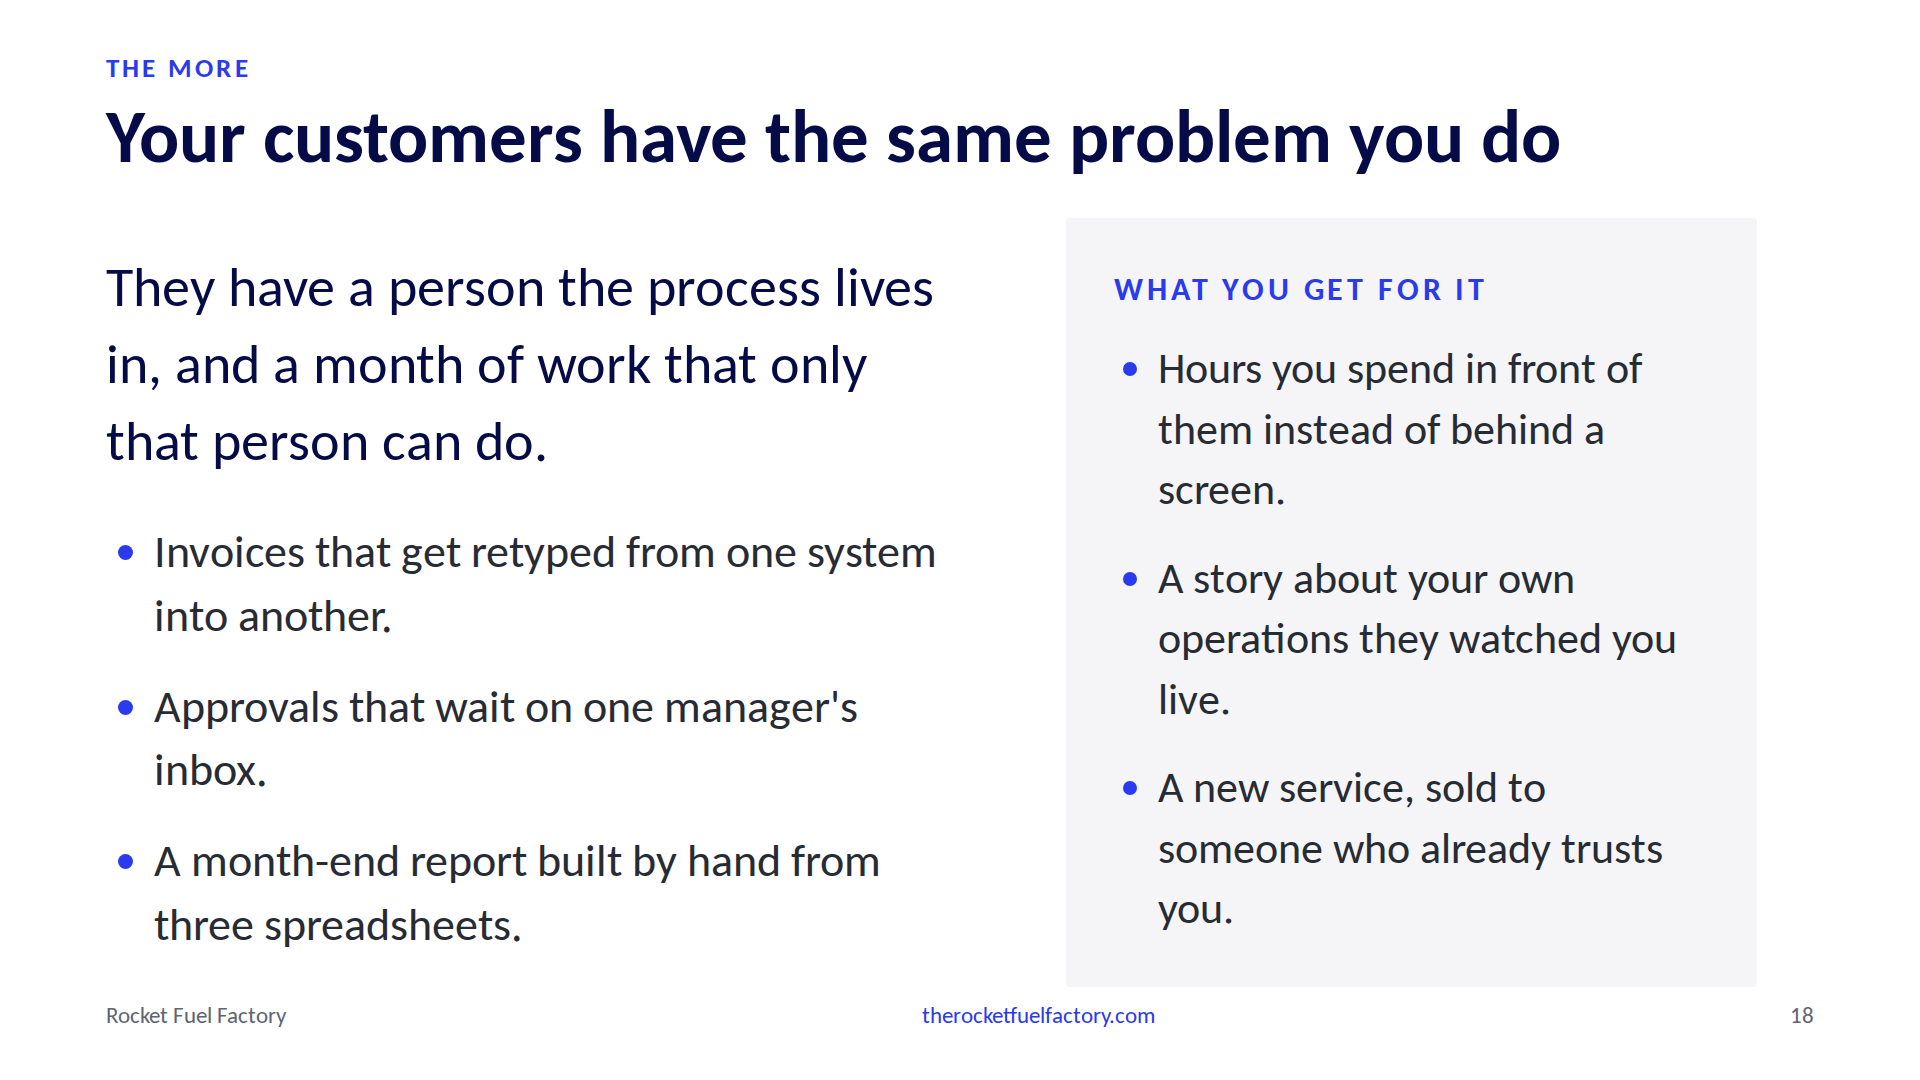
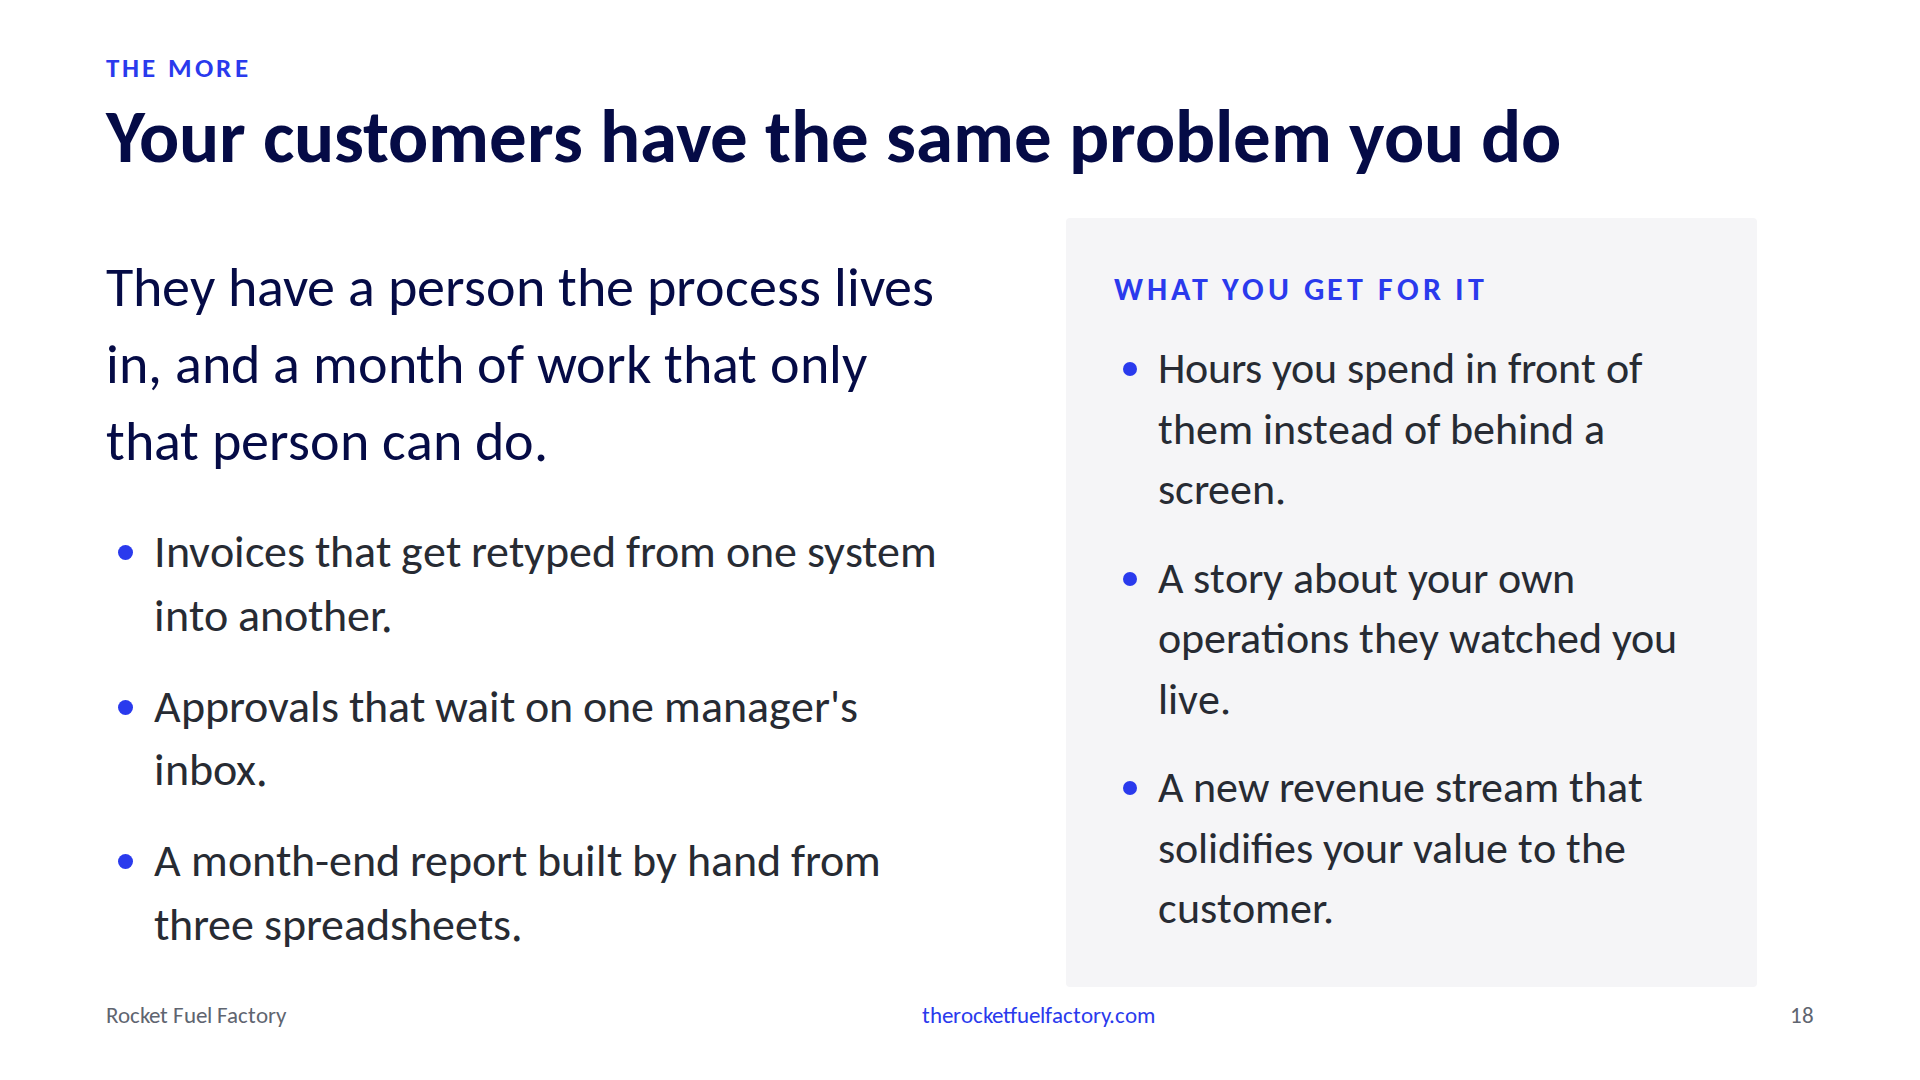
Slide 18: revenue stream line in Tim's words

Changed region(s): [[0.5938, 0.7028, 0.875, 0.8556]]

diff --git a/src/data/notes.js b/src/data/notes.js
@@ -21,7 +21,7 @@ export const notes = {
   'deterministic-vs-probabilistic': 'Target 15:40. Two words, and then I will stop using jargon. Deterministic means the same input gives the same output, every time, forever. Probabilistic means it gives you a good answer, and a slightly different one each time you ask. The steps we usually call automation are deterministic. The steps we call AI are probabilistic. Neither is better. They are for different work, and a finished automation is usually built from both, which is the next slide. Here is how I split it. The deterministic steps get the work with an exact rule. If a ticket comes in from this client at this priority, do this. It does the same thing every single time, which means I can check it once, sign off on it, and let it run. And when it hits something the rule does not cover, it does not improvise. It errors, and I hear about it. The probabilistic step gets the work where a good guess is enough. Draft the email. Sort the inbox. Summarize the ticket. It does something a little different every run, which is fine for a draft and not fine for a decision, so someone reads what it produces every time. And when the brief has a gap, the gap does not come back as an error. It comes back inside the answer, as a guess or as a question, and you only find it by reading. That Q2 line in the first email was a gap in the brief showing up in the answer. If that sounds like a lot of checking, think about what you already run. A tech at 4pm on a Tuesday is a probabilistic system, and you do not ban the tech. You put a second pair of eyes on the work that mattered. Same answer here. Here is what that looks like when you wire it up.',
   'guardrail-sandwich': 'Target 17:40. So yes, you can use AI inside your operations. This is how I do it, and I call it the guardrail sandwich. The whole thing is one automation. The bread is the deterministic steps. The filling is the probabilistic step. And the way to think about it is communication, the same as with a person you are handing work to. Top slice is everything you tell it before it starts. Gather the facts from the systems that actually hold them, so it is not guessing at what the ticket said or what the client has. Validate that the request is complete and that we are allowed to act on it at all, and if either of those fails it stops right there and a person hears about it. Then attach the rules you wrote for this job. That is the step I see skipped most often. It is the brief from the demo, and it is the difference between a guess and a draft you would sign. The filling is the one thing it does. It makes the first pass. It drafts, it sorts, it summarizes, with the facts and the rules already in front of it. Bottom slice is checking whether it understood you. Check the result against those same rules, and if a rule cannot check it, a person does. Then log what happened and tell the person who owns it. The AI never touches the customer or the record on its own. It made a first pass in the middle of a conversation you wrote down on both sides. None of this works if the rules are still in somebody\'s head, which is why everything before this slide was about getting them out. If you saw me at Right of Boom, this is the same sandwich with the security taken out and the day to day put in. Here is what it costs.',
   'honest-limit': 'Target 20:10. So the machine made its pass. Now I have to find out whether it understood me, and that is the same thing I do with a person. I read the draft against what I asked for. If I wrote the rules down, that check is fast, because I am comparing the answer to a sentence I already have. If I did not, the check is me re-deciding the whole job, and then I have bought a subscription and kept the work. That is the part nobody puts in the demo, and it is the honest limit on all of this. The way I keep the check fast is to decide it first, and to ask for the answer in a shape something can test. A category. A yes or no. A number under 150. Then I log the run. What went in, what came out, who signed off. Look at the third row. The draft came back at 212 words, the rule said 150, so it never went anywhere. It sat there for Chris. Nobody had to read it to catch it. That log is not paperwork. It is the record of the conversation, and it is the only version of it anyone else can read. When a client asks me what the AI did with their data, I do not tell them it is fine. I read them the run. If you want the harder version of that question, the legal session at 3:15 has it. And once you can show a client that, you can stop talking about your own shop.',
-  'the-more': 'Target 21:40. SLOW. This is the more in the title. Everything so far was your own operations. Now look at your clients. They have a Mike too. Somebody in accounting retypes every invoice from the shipping system into the accounting system. Somebody waits three days for one manager to approve a thing from an inbox. Somebody builds the month-end report by hand from three spreadsheets, and is the only one who knows which numbers go where. Nobody in that building has written those steps down, and nobody they know can do the thing you just watched for twenty minutes: sit with the person, get the rule out of their head, and put a machine behind it. You can. And here is what you get for it. The hours you got back from your own automation, spent in front of them instead of behind a screen. A story about your own operations that they watched happen, which is a better case study than anything in a brochure. And a new service, sold to someone who already trusts you, which is the cheapest sale you will ever make. That is the more. Not fewer people. More of the work only you can do for them.',
+  'the-more': 'Target 21:40. SLOW. This is the more in the title. Everything so far was your own operations. Now look at your clients. They have a Mike too. Somebody in accounting retypes every invoice from the shipping system into the accounting system. Somebody waits three days for one manager to approve a thing from an inbox. Somebody builds the month-end report by hand from three spreadsheets, and is the only one who knows which numbers go where. Nobody in that building has written those steps down, and nobody they know can do the thing you just watched for twenty minutes: sit with the person, get the rule out of their head, and put a machine behind it. You can. And here is what you get for it. The hours you got back from your own automation, spent in front of them instead of behind a screen. A story about your own operations that they watched happen, which is a better case study than anything in a brochure. And a new revenue stream, one that makes you harder to replace, because you are now fixing the part of their business nobody else in their building can see. That is the more. Not fewer people. More of the work only you can do for them.',
   'one-action': 'Target 23:40. End on the action, not a thank you. Read it as instructions, slowly. The employee you would hate to lose is the person the process lives in; that is why you would hate to lose them. The thing they dread once a month is the automaton work. Writing it down is Aharon: the process does not exist until it is said out loud. The two questions are the whole talk: could anyone else follow it is delegation, could it be automated is the more. Then hand off: Erik and Atul are about to talk about the version of this where the person the process lives in is you.',
   presenter: 'Target 24:40. One breath. Name, company, one sentence. About five minutes of buffer before the hard stop; spend it on the SLOW slides.',
 }

diff --git a/src/components/slides/019-TheMore.jsx b/src/components/slides/019-TheMore.jsx
@@ -23,7 +23,7 @@ export default function TheMore({ slideNumber }) {
       cardItems={[
         'Hours you spend in front of them instead of behind a screen.',
         'A story about your own operations they watched you live.',
-        'A new service, sold to someone who already trusts you.',
+        'A new revenue stream that solidifies your value to the customer.',
       ]}
     />
   )

diff --git a/docs/OUTLINE.md b/docs/OUTLINE.md
@@ -54,7 +54,7 @@ Closing line: If you can't write the rule, you can't hire your way out of it eit
 15. What I hand to each kind of step (comparison, gold, level pairs, headers Deterministic (cog) and Probabilistic (sparkles); note defines both words and says a finished automation is built from both). Deterministic: work with an exact rule, if this then that; same thing every time so you check it once; a gap in the rule shows up as an error. AI: work where a good guess is enough, drafting, sorting, summarizing; a little different every run so someone checks every time; a gap in the brief shows up in the answer. Footer, one sentence: you already run a probabilistic system: a tech at 4pm on a Tuesday. First person title so the split is Tim's rule, not a vendor's law (Opus, 14 Sep).
 16. The Guardrail Sandwich (gold). Drawn as a sandwich: grey bread above and below (Deterministic, cog), pale gold filling with a gold edge (Probabilistic, sparkles). Tim: the whole thing is one automation with a mix of the two, so the bands are not labelled automation and AI. Six generic steps, nothing names the email: gather the facts from the systems that hold them; validate complete and allowed; attach the rules you wrote for this job; (AI) make the first pass, draft, sort, or summarize; check against those same rules or hand to a person; log and tell the owner. Title is the permission: you can put AI in the middle of a process you wrote. Footer is the condition as communication: tell it everything in writing before it starts, then check whether it understood. The unguarded line is spoken. Note walks the slices, names step 3 as the one people skip and the brief from the demo, one-line Right of Boom callback, hands to 17 with "here is what it costs". Inspired by the Right of Boom 2026 stack, not copied.
 17. The check (gold). Pays off 16's condition: the check is how you know it understood you. Lead: you check the answer against the same rules you wrote for the step. Three bullets: decide what good looks like before you build the step; ask for a shape a rule can test (category, yes or no, number); log what went in, what came out, who approved it. Right side is the log drawn as an artifact, three runs from the demo morning: the outage email passed and Alex sent it, a printer ticket categorized automatically, a billing draft over 150 words held for Chris. Closing line: when a client asks what the AI did with their data, you read them the run. Cost honesty (subscription plus headcount) and the 3:15 legal pointer are spoken, not on the slide. Opus rethink 14 Sep: a caveat beat between permission (16) and payoff (18) was the wrong shape.
-18. The more (two-column, blue). SLOW. Title: your customers have the same problem you do. Lead: they have a person the process lives in, and a month of work only that person can do. Bullets: invoices retyped from one system into another; approvals waiting on one manager's inbox; a month-end report built by hand from three spreadsheets. Card, what you get for it: hours in front of them instead of behind a screen; a story about your own operations they watched you live; a new service, sold to someone who already trusts you. The word automaton is gone from the deck (it was only in the cut opener); the title now says the problem plainly. Note: they have a Mike too; that is the more, not fewer people, more of the work only you can do for them.
+18. The more (two-column, blue). SLOW. Title: your customers have the same problem you do. Lead: they have a person the process lives in, and a month of work only that person can do. Bullets: invoices retyped from one system into another; approvals waiting on one manager's inbox; a month-end report built by hand from three spreadsheets. Card, what you get for it: hours in front of them instead of behind a screen; a story about your own operations they watched you live; a new revenue stream that solidifies your value to the customer. The word automaton is gone from the deck (it was only in the cut opener); the title now says the problem plainly. Note: they have a Mike too; that is the more, not fewer people, more of the work only you can do for them.
 19. One action (closing). Tim's words: sit with one employee you would hate to lose. Ask what they do at least once a month that they dread. Work out the unwritten process behind it and write it down. Then two questions: could anyone else follow this, could some or all of it be automated. Say "this month" aloud. Hand to Erik and Atul: the version where the person the process lives in is you. No Table 3 reference; speakers were never asked to brief the tables.
 20. Presenter.
 
